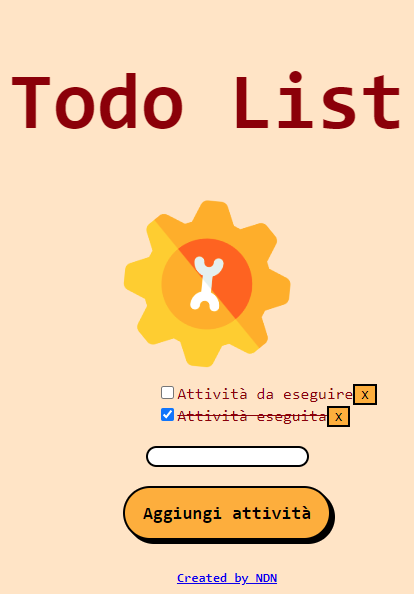
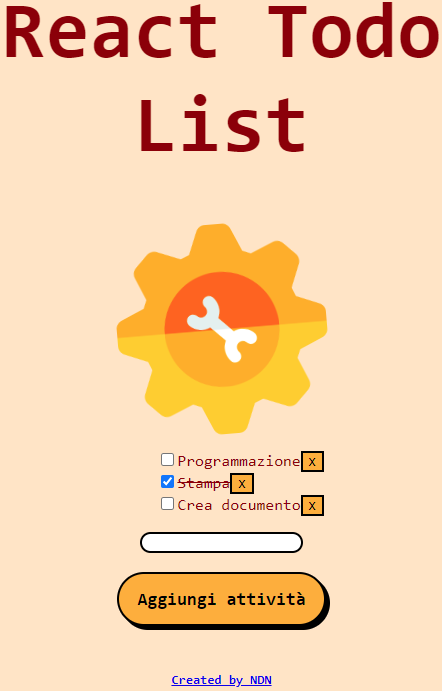
Some updates

diff --git a/src/TodoListItem.tsx b/src/TodoListItem.tsx
@@ -3,7 +3,7 @@ import React from "react";
 export const TodoListItem: React.FC<TodoListItemProps> = ({
   todo, toggleComplete, toggleDelete }) => {
   return (
-    <ul>
+    <dt>
       <label className={todo.complete ? "complete" : undefined}>
         <input id="checkbox" type="checkbox"
           onChange={() => toggleComplete(todo)}
@@ -13,6 +13,6 @@ export const TodoListItem: React.FC<TodoListItemProps> = ({
         
       </label>
       <button id="delete-button" onClick={() => toggleDelete(todo)}>X</button>
-    </ul>
+    </dt>
   );
 };

diff --git a/src/App.tsx b/src/App.tsx
@@ -49,12 +49,10 @@ function App() {
     <div className="App">
     <h1>React Todo List</h1>
     <img src={logo} className="App-logo" alt="logo" />
-    <ul>
+    <dt>
       <TodoList todos={todos} toggleComplete={toggleComplete} toggleDelete={toggleDelete}/>
-      <br/>
       <AddTodo addTodo={addTodo}/><br/>
-    <h2><a href="https://github.com/ndenicolais/">Created by NDN</a></h2>
-    </ul>
+    </dt>
     </div>
   );
 }

diff --git a/index.html b/index.html
@@ -10,5 +10,10 @@
   <body>
     <div id="root"></div>
     <script type="module" src="/src/main.tsx"></script>
+    <footer>
+    <h2>
+    <a href="https://github.com/ndenicolais/">Created by NDN</a>
+    </h2>
+    </footer>
   </body>
 </html>

diff --git a/src/App.css b/src/App.css
@@ -1,10 +1,11 @@
 body {
+  font-family: 'Consolas';
   margin: 0;
   background-color:bisque;
-  font-family: 'Consolas';
 }
 
 .App {
+  font-family: 'Consolas';
   min-height: 50vh;
   display: flex;
   flex-direction: column;

diff --git a/README.md b/README.md
@@ -2,29 +2,18 @@
 
 > <b>Autore: Nicola De Nicolais</b>
 
-Questo codice rappresenta una Todo list creata con Vite.js basata su un template React Typescript
+Todo list creata con Vite.js basata su un template React Typescript
 
 ## Tecnologie utilizzate
 - 📦 [Node](https://nodejs.org/)
 - ⚡ [Vite](https://vitejs.dev)
 - 🌐 [React](https://reactjs.org/)
-## Struttura
-- 📂 public  
-contiene le risorse come il file "index.html", immagini, icone, etc...
-- 📂 src  
-contiene il codice sorgente per far funzionare l'applicazione
-
-  Internamente alla cartella ci sono:
-
-- AddTodo.tsx
-- App.tsx
-- TodoList.tsx
-- TodoListItem.tsx
 
 ## Installazione
 Nella cartella del progetto possiamo eseguire diverse azioni:
 
-1) Clona questa repository da GitHub. Apri il terminale ed esegui `git clone https://github.com/ndenicolais/todo-list-react-ts`
+1) Clona questa repository da GitHub.
+Apri il terminale ed esegui `git clone https://github.com/ndenicolais/todo-list-react-ts`
 
 2) Nel terminale esegui    `cd todo-list-react-ts-main` per entrare nella cartella del progetto.
 
